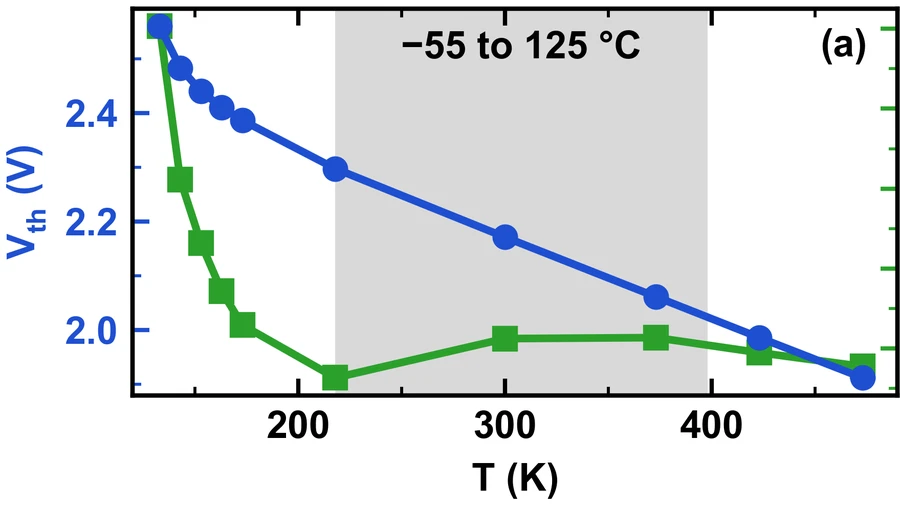
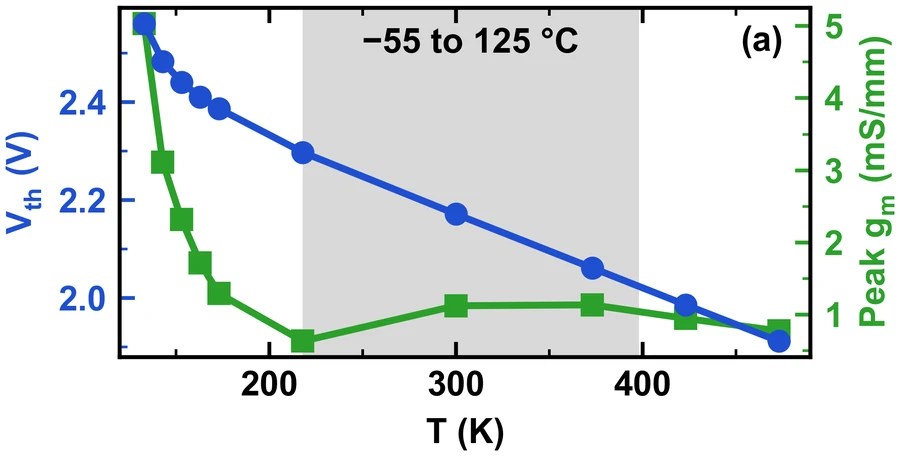
style: wrap GaN result cards instead of scrolling; fix temperature split
Show the six result cards in a grid that wraps onto new lines (one per
line on phones) with no horizontal scrolling, and re-split the
temperature figure at the real gap between panels so panel (a) keeps its
peak-gm axis. Stylesheet bumped to v=3.10.

Changed region(s): [[0.0, 0.0, 1.0, 0.9825], [0.0, 0.4605, 0.0311, 0.5219]]

diff --git a/projects/gan-power-transistor.html b/projects/gan-power-transistor.html
@@ -8,7 +8,7 @@
   <link rel="preconnect" href="https://fonts.googleapis.com" />
   <link rel="preconnect" href="https://fonts.gstatic.com" crossorigin />
   <link href="https://fonts.googleapis.com/css2?family=Inter:wght@400;500;600;700&family=Lora:ital,wght@0,500;0,600;0,700;1,400;1,500&family=JetBrains+Mono:wght@400;500&display=swap" rel="stylesheet" />
-  <link rel="stylesheet" href="../styles.css?v=3.9" />
+  <link rel="stylesheet" href="../styles.css?v=3.10" />
   <link rel="icon" href="../assets/favicon.svg" type="image/svg+xml" />
 </head>
 <body>
@@ -117,7 +117,7 @@
 
         <h2 id="results">Selected Results</h2>
         <p>A selection of the simulation results (Silvaco TCAD). The full set is in the submitted paper.</p>
-        <div class="result-row" tabindex="0" aria-label="Selected results, scroll sideways for more">
+        <div class="result-row">
           <figure class="result-card"><a href="../assets/projects/gan/02b_transfer.webp" target="_blank" rel="noopener"><img src="../assets/projects/gan/02b_transfer.webp" alt="Transfer characteristic of the shielded GaN fin transistor on a log scale" loading="lazy" /></a><figcaption>Transfer characteristic: a sharp turn-on from off to on.</figcaption></figure>
           <figure class="result-card"><a href="../assets/projects/gan/02c_output.webp" target="_blank" rel="noopener"><img src="../assets/projects/gan/02c_output.webp" alt="Output characteristics of the shielded GaN fin transistor" loading="lazy" /></a><figcaption>Output characteristics: clean current saturation.</figcaption></figure>
           <figure class="result-card"><a href="../assets/projects/gan/03_on_resistance.webp" target="_blank" rel="noopener"><img src="../assets/projects/gan/03_on_resistance.webp" alt="Specific on-resistance falling as the gate voltage increases" loading="lazy" /></a><figcaption>Specific on-resistance against gate voltage: it falls with stronger gate drive and levels off.</figcaption></figure>
@@ -125,7 +125,6 @@
           <figure class="result-card"><a href="../assets/projects/gan/06a_vth_gm_temperature.webp" target="_blank" rel="noopener"><img src="../assets/projects/gan/06a_vth_gm_temperature.webp" alt="Threshold voltage and peak transconductance across temperature" loading="lazy" /></a><figcaption>Threshold voltage and peak transconductance across temperature; the shaded band marks the military temperature range.</figcaption></figure>
           <figure class="result-card"><a href="../assets/projects/gan/06b_ss_current_temperature.webp" target="_blank" rel="noopener"><img src="../assets/projects/gan/06b_ss_current_temperature.webp" alt="Subthreshold swing and current across temperature" loading="lazy" /></a><figcaption>Subthreshold swing and current across temperature.</figcaption></figure>
         </div>
-        <p class="result-hint">Scroll sideways for more results →</p>
 
         <p class="asic-note"><strong>Status:</strong> Ongoing. Conference paper submitted (IEEE EDTM 2027); journal article in preparation. More results will be added after publication.</p>
 

diff --git a/styles.css b/styles.css
@@ -2006,19 +2006,15 @@ body.dark-mode .arch {
   .result-fig--wide img { min-width: 620px; }
 }
 
-/* ── Result cards: one horizontal row on desktop, stacked on phones ── */
+/* ── Result cards: wrap onto new lines, no scrolling ── */
 .result-row {
-  display: flex;
+  display: grid;
+  grid-template-columns: repeat(auto-fill, minmax(230px, 1fr));
   gap: 1rem;
-  overflow-x: auto;
-  scroll-snap-type: x mandatory;
-  padding: 0.25rem 0.1rem 0.75rem;
-  margin: 1.25rem 0 0.25rem;
+  margin: 1.25rem 0 1.5rem;
 }
 .result-card {
-  flex: 0 0 270px;
   margin: 0;
-  scroll-snap-align: start;
   display: flex;
   flex-direction: column;
   border: 1px solid var(--border);
@@ -2030,7 +2026,7 @@ body.dark-mode .arch {
   display: flex;
   align-items: center;
   justify-content: center;
-  height: 210px;
+  height: 200px;
   padding: 0.6rem;
   background: #ffffff;
 }
@@ -2043,10 +2039,6 @@ body.dark-mode .arch {
   border-top: 1px solid var(--border);
   line-height: 1.5;
 }
-.result-hint { font-size: 0.78rem; color: var(--text-muted); margin: 0 0 1.25rem; }
 @media (max-width: 640px) {
-  .result-row { flex-direction: column; overflow-x: visible; scroll-snap-type: none; }
-  .result-card { flex: none; }
   .result-card a { height: auto; }
-  .result-hint { display: none; }
 }

diff --git a/projects/cnn-digit-detector.html b/projects/cnn-digit-detector.html
@@ -8,7 +8,7 @@
   <link rel="preconnect" href="https://fonts.googleapis.com" />
   <link rel="preconnect" href="https://fonts.gstatic.com" crossorigin />
   <link href="https://fonts.googleapis.com/css2?family=Inter:wght@400;500;600;700&family=Lora:ital,wght@0,500;0,600;0,700;1,400;1,500&family=JetBrains+Mono:wght@400;500&display=swap" rel="stylesheet" />
-  <link rel="stylesheet" href="../styles.css?v=3.9" />
+  <link rel="stylesheet" href="../styles.css?v=3.10" />
   <link rel="icon" href="../assets/favicon.svg" type="image/svg+xml" />
 
   <script src="https://cdn.jsdelivr.net/npm/mermaid@10.9.1/dist/mermaid.min.js"></script>

diff --git a/projects/sobel-video-coprocessor.html b/projects/sobel-video-coprocessor.html
@@ -8,7 +8,7 @@
   <link rel="preconnect" href="https://fonts.googleapis.com" />
   <link rel="preconnect" href="https://fonts.gstatic.com" crossorigin />
   <link href="https://fonts.googleapis.com/css2?family=Inter:wght@400;500;600;700&family=Lora:ital,wght@0,500;0,600;0,700;1,400;1,500&family=JetBrains+Mono:wght@400;500&display=swap" rel="stylesheet" />
-  <link rel="stylesheet" href="../styles.css?v=3.9" />
+  <link rel="stylesheet" href="../styles.css?v=3.10" />
   <link rel="icon" href="../assets/favicon.svg" type="image/svg+xml" />
 
   <script src="https://cdn.jsdelivr.net/npm/mermaid@10.9.1/dist/mermaid.min.js"></script>

diff --git a/projects/mbcfet.html b/projects/mbcfet.html
@@ -8,7 +8,7 @@
   <link rel="preconnect" href="https://fonts.googleapis.com" />
   <link rel="preconnect" href="https://fonts.gstatic.com" crossorigin />
   <link href="https://fonts.googleapis.com/css2?family=Inter:wght@400;500;600;700&family=Lora:ital,wght@0,500;0,600;0,700;1,400;1,500&family=JetBrains+Mono:wght@400;500&display=swap" rel="stylesheet" />
-  <link rel="stylesheet" href="../styles.css?v=3.9" />
+  <link rel="stylesheet" href="../styles.css?v=3.10" />
   <link rel="icon" href="../assets/favicon.svg" type="image/svg+xml" />
   
   <!-- KaTeX for math rendering -->

diff --git a/projects/aerial-survey.html b/projects/aerial-survey.html
@@ -8,7 +8,7 @@
   <link rel="preconnect" href="https://fonts.googleapis.com" />
   <link rel="preconnect" href="https://fonts.gstatic.com" crossorigin />
   <link href="https://fonts.googleapis.com/css2?family=Inter:wght@400;500;600;700&family=Lora:ital,wght@0,500;0,600;0,700;1,400;1,500&family=JetBrains+Mono:wght@400;500&display=swap" rel="stylesheet" />
-  <link rel="stylesheet" href="../styles.css?v=3.9" />
+  <link rel="stylesheet" href="../styles.css?v=3.10" />
   <link rel="icon" href="../assets/favicon.svg" type="image/svg+xml" />
 
   <!-- KaTeX for math rendering -->

diff --git a/domains/dom-device-physics.html b/domains/dom-device-physics.html
@@ -8,7 +8,7 @@
   <link rel="preconnect" href="https://fonts.googleapis.com" />
   <link rel="preconnect" href="https://fonts.gstatic.com" crossorigin />
   <link href="https://fonts.googleapis.com/css2?family=Inter:wght@400;500;600;700&family=Lora:ital,wght@0,500;0,600;0,700;1,400;1,500&family=JetBrains+Mono:wght@400;500&display=swap" rel="stylesheet" />
-  <link rel="stylesheet" href="../styles.css?v=3.9" />
+  <link rel="stylesheet" href="../styles.css?v=3.10" />
   <link rel="icon" href="../assets/favicon.svg" type="image/svg+xml" />
 </head>
 <body>

diff --git a/domains/dom-embedded.html b/domains/dom-embedded.html
@@ -8,7 +8,7 @@
   <link rel="preconnect" href="https://fonts.googleapis.com" />
   <link rel="preconnect" href="https://fonts.gstatic.com" crossorigin />
   <link href="https://fonts.googleapis.com/css2?family=Inter:wght@400;500;600;700&family=Lora:ital,wght@0,500;0,600;0,700;1,400;1,500&family=JetBrains+Mono:wght@400;500&display=swap" rel="stylesheet" />
-  <link rel="stylesheet" href="../styles.css?v=3.9" />
+  <link rel="stylesheet" href="../styles.css?v=3.10" />
   <link rel="icon" href="../assets/favicon.svg" type="image/svg+xml" />
 </head>
 <body>

diff --git a/domains/dom-fpga.html b/domains/dom-fpga.html
@@ -8,7 +8,7 @@
   <link rel="preconnect" href="https://fonts.googleapis.com" />
   <link rel="preconnect" href="https://fonts.gstatic.com" crossorigin />
   <link href="https://fonts.googleapis.com/css2?family=Inter:wght@400;500;600;700&family=Lora:ital,wght@0,500;0,600;0,700;1,400;1,500&family=JetBrains+Mono:wght@400;500&display=swap" rel="stylesheet" />
-  <link rel="stylesheet" href="../styles.css?v=3.9" />
+  <link rel="stylesheet" href="../styles.css?v=3.10" />
   <link rel="icon" href="../assets/favicon.svg" type="image/svg+xml" />
 </head>
 <body>

diff --git a/domains/dom-vlsi.html b/domains/dom-vlsi.html
@@ -8,7 +8,7 @@
   <link rel="preconnect" href="https://fonts.googleapis.com" />
   <link rel="preconnect" href="https://fonts.gstatic.com" crossorigin />
   <link href="https://fonts.googleapis.com/css2?family=Inter:wght@400;500;600;700&family=Lora:ital,wght@0,500;0,600;0,700;1,400;1,500&family=JetBrains+Mono:wght@400;500&display=swap" rel="stylesheet" />
-  <link rel="stylesheet" href="../styles.css?v=3.9" />
+  <link rel="stylesheet" href="../styles.css?v=3.10" />
   <link rel="icon" href="../assets/favicon.svg" type="image/svg+xml" />
 </head>
 <body>

diff --git a/projects/asic-accelerator.html b/projects/asic-accelerator.html
@@ -8,7 +8,7 @@
   <link rel="preconnect" href="https://fonts.googleapis.com" />
   <link rel="preconnect" href="https://fonts.gstatic.com" crossorigin />
   <link href="https://fonts.googleapis.com/css2?family=Inter:wght@400;500;600;700&family=Lora:ital,wght@0,500;0,600;0,700;1,400;1,500&family=JetBrains+Mono:wght@400;500&display=swap" rel="stylesheet" />
-  <link rel="stylesheet" href="../styles.css?v=3.9" />
+  <link rel="stylesheet" href="../styles.css?v=3.10" />
   <link rel="icon" href="../assets/favicon.svg" type="image/svg+xml" />
 </head>
 <body>

diff --git a/projects/asic-memories.html b/projects/asic-memories.html
@@ -8,7 +8,7 @@
   <link rel="preconnect" href="https://fonts.googleapis.com" />
   <link rel="preconnect" href="https://fonts.gstatic.com" crossorigin />
   <link href="https://fonts.googleapis.com/css2?family=Inter:wght@400;500;600;700&family=Lora:ital,wght@0,500;0,600;0,700;1,400;1,500&family=JetBrains+Mono:wght@400;500&display=swap" rel="stylesheet" />
-  <link rel="stylesheet" href="../styles.css?v=3.9" />
+  <link rel="stylesheet" href="../styles.css?v=3.10" />
   <link rel="icon" href="../assets/favicon.svg" type="image/svg+xml" />
 </head>
 <body>
